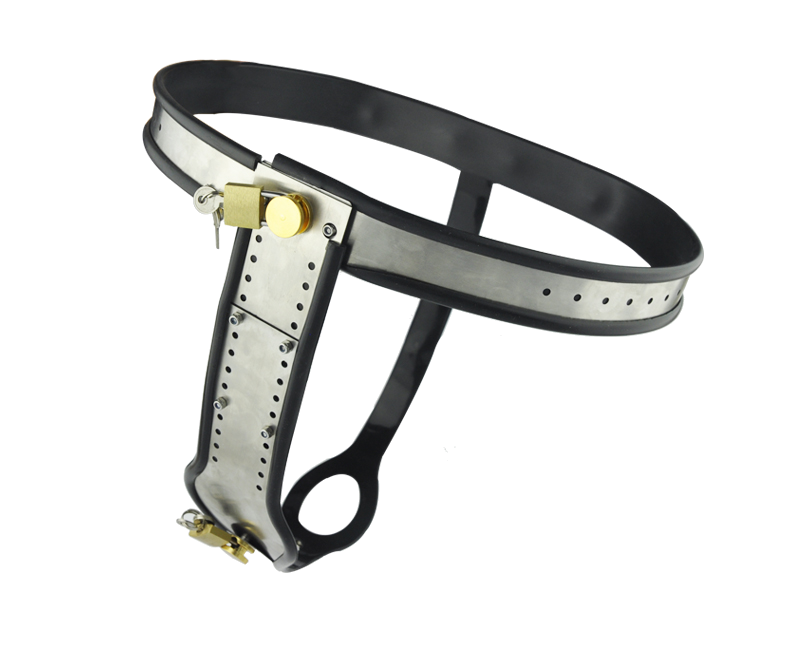
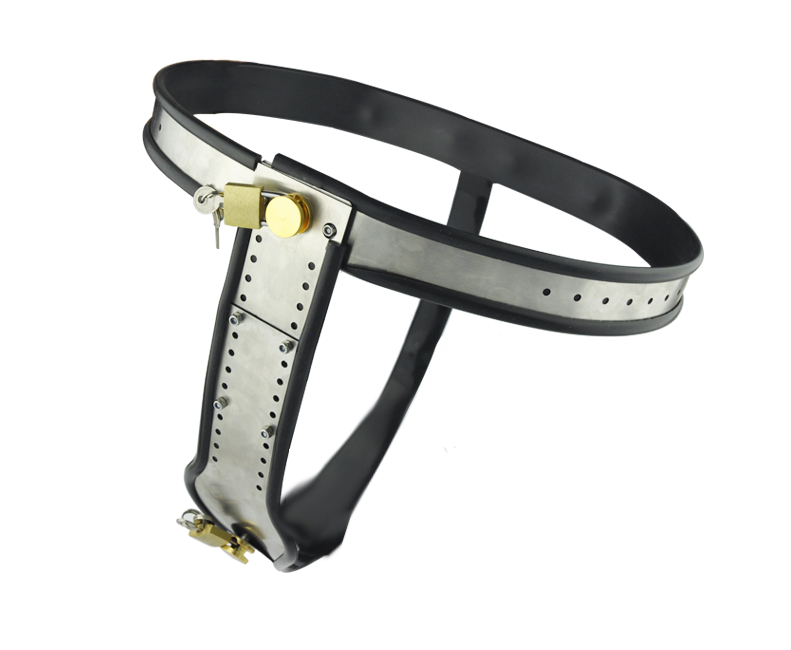
Open Back Belts (#798)
Added Open Back variants of the Metal, polished studded and ornate chastity belts

Changed region(s): [[0.3338, 0.6154, 0.5158, 0.8615]]

diff --git a/BondageClub/Assets/Female3DCG/Female3DCG.js b/BondageClub/Assets/Female3DCG/Female3DCG.js
@@ -1076,6 +1076,16 @@ var AssetFemale3DCG = [
 				]
 			},
 			{ Name: "SteelChastityPanties", Effect: ["Chaste"], Block: ["ItemVulva", "ItemButt", "ItemVulvaPiercings"], Hide: ["ItemVulva", "ItemVulvaPiercings"], Value: 150, Prerequisite: "AccessVulva", AllowLock: true, Difficulty: 50, Time: 50, RemoveTime: 60, ExpressionTrigger: [{ Group: "Eyebrows", Name: "Soft", Timer: 10 }] },
+			{ Name: "OpenBackStuddedChastityBelt", Effect: ["Chaste"], Block: ["ItemVulva", "ItemVulvaPiercings"], HideItem: ["ItemButtAnalBeads2", "ItemVulvaVibratingDildo", "ItemVulvaClitSuctionCup", "ItemVulvaInflatableVibeDildo", "ItemVulvaHeavyWeightClamp", "ItemVulvaPenisDildo", "ItemVulvaPiercingsVibeHeartClitPiercing"], Value: 60, Prerequisite: "AccessVulva", AllowLock: true, Difficulty: 14, Time: 20, RemoveTime: 10, ExpressionTrigger: [{ Group: "Eyebrows", Name: "Soft", Timer: 10 }] },
+			{ Name: "OpenBackMetalChastityBelt", Effect: ["Chaste"], Block: ["ItemVulva", "ItemVulvaPiercings"], HideItem: ["ItemButtAnalBeads2", "ItemVulvaVibratingDildo", "ItemVulvaClitSuctionCup", "ItemVulvaInflatableVibeDildo", "ItemVulvaHeavyWeightClamp", "ItemVulvaPenisDildo", "ItemVulvaPiercingsVibeHeartClitPiercing"], Value: 100, Prerequisite: "AccessVulva", AllowLock: true, Difficulty: 20, Time: 20, RemoveTime: 10, ExpressionTrigger: [{ Group: "Eyebrows", Name: "Soft", Timer: 10 }] },
+			{ Name: "OpenBackPolishedChastityBelt", Effect: ["Chaste"], Block: ["ItemVulva", "ItemVulvaPiercings"], HideItem: ["ItemButtAnalBeads2", "ItemVulvaVibratingDildo", "ItemVulvaClitSuctionCup", "ItemVulvaInflatableVibeDildo", "ItemVulvaHeavyWeightClamp", "ItemVulvaPenisDildo", "ItemVulvaPiercingsVibeHeartClitPiercing"], Value: 150, Prerequisite: "AccessVulva", AllowLock: true, Difficulty: 30, Time: 20, RemoveTime: 10, ExpressionTrigger: [{ Group: "Eyebrows", Name: "Soft", Timer: 10 }] },
+			{
+				Name: "OpenBackOrnateChastityBelt", Effect: ["Chaste"], Block: ["ItemVulva", "ItemVulvaPiercings"], HideItem: ["ItemButtAnalBeads2", "ItemVulvaVibratingDildo", "ItemVulvaClitSuctionCup", "ItemVulvaInflatableVibeDildo", "ItemVulvaHeavyWeightClamp", "ItemVulvaPenisDildo", "ItemVulvaPiercingsVibeHeartClitPiercing"], Value: 200, Prerequisite: "AccessVulva", AllowLock: true, Difficulty: 50, Time: 20, RemoveTime: 10, ExpressionTrigger: [{ Group: "Eyebrows", Name: "Soft", Timer: 10 }],
+			Layer: [
+					{ Name: "Belt", AllowColorize: true },
+					{ Name: "Gems", AllowColorize: false }
+				]
+			},
 			{ Name: "HarnessPanties1", Priority: 19, Value: 35, Prerequisite: "AccessVulva", AllowLock: true, Difficulty: 8, Time: 10, RemoveTime: 15, BuyGroup: ["HarnessPanties1"], Expose: ["ItemVulva", "ItemVulvaPiercings", "ItemButt"], AllowPose: ["LegsClosed", "Kneel"] },
 			{ Name: "HarnessPanties2", Left: 85, Top: 395, Priority: 19, Value: 40, Prerequisite: "AccessVulva", AllowLock: true, Difficulty: 9, Time: 10, RemoveTime: 15, BuyGroup: ["HarnessPanties2"], Expose: ["ItemVulva", "ItemVulvaPiercings", "ItemButt"], AllowPose: ["LegsClosed", "Kneel", "Horse", "KneelingSpread"] },
 			{ Name: "LeatherStrapPanties1", Left: 150, Top: 395, Effect: ["Chaste"], Block: ["ItemVulva", "ItemButt", "ItemVulvaPiercings"], HideItem: ["ItemButtAnalBeads2", "ItemVulvaVibratingDildo", "ItemVulvaClitSuctionCup", "ItemVulvaInflatableVibeDildo", "ItemVulvaHeavyWeightClamp", "ItemVulvaPenisDildo", "ItemVulvaPiercingsVibeHeartClitPiercing"], Value: 20, Prerequisite: "AccessVulva", AllowLock: true, Difficulty: 5, Time: 20, RemoveTime: 10, ExpressionTrigger: [{ Group: "Eyebrows", Name: "Soft", Timer: 10 }], BuyGroup: ["LeatherStrapPanties1"] },
